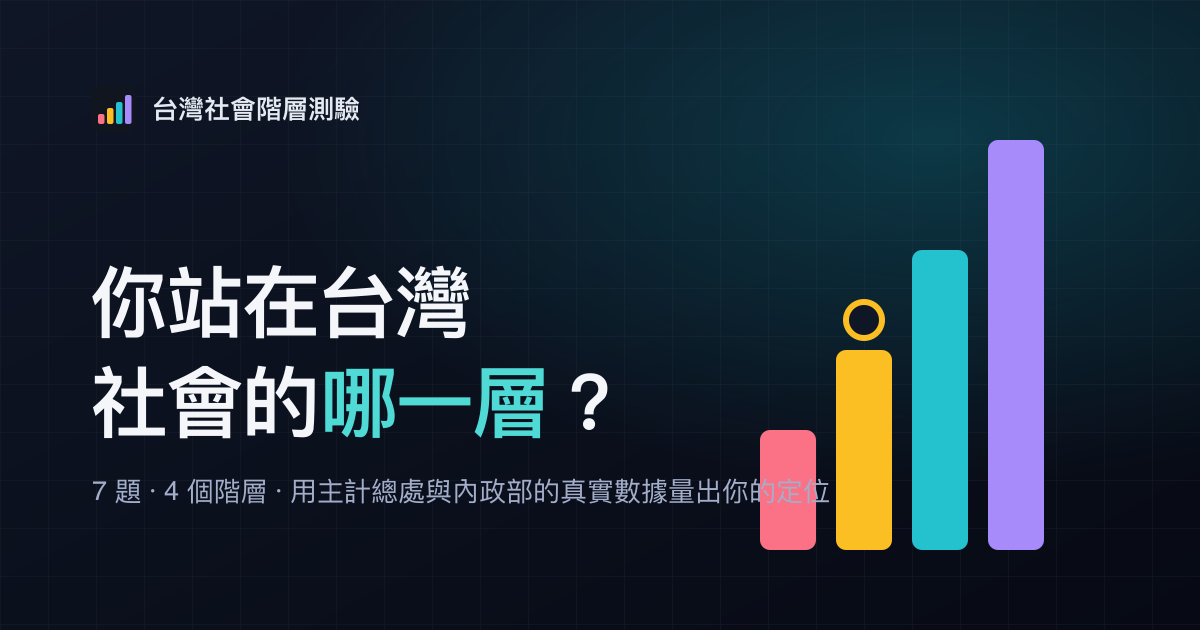
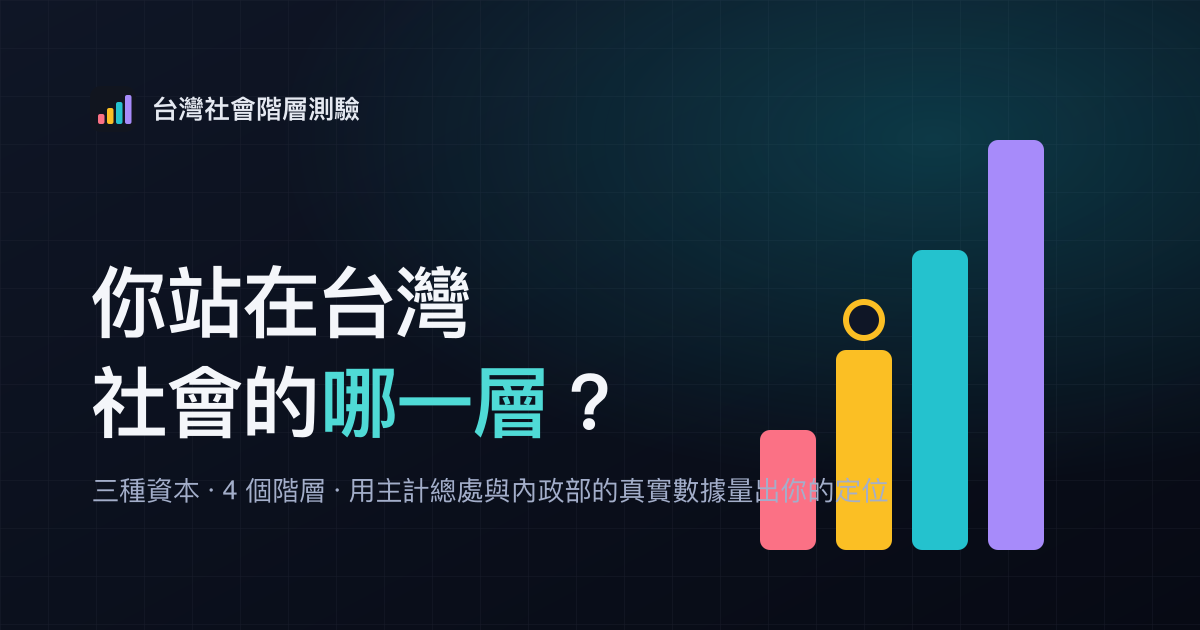
fix: drop stale "7 題" copy; make counts dynamic / number-free
The 7→9 migration missed several question-count strings. Rather than just
bumping them, remove the number from flavor/marketing copy (so it can't go
stale again) and make the legitimate methodology counts dynamic:

- home hero badge & subtitle: number-free.
- home spectrum + /data methodology: read TOTAL_QUESTIONS / MIN_SCORE /
  MAX_SCORE from constants instead of hardcoding.
- result empty state, /data caveat: number-free.
- meta description / og / twitter / webmanifest / og-image.svg: drop the
  question count (regenerated og-image.png).

Changed region(s): [[0.0617, 0.754, 0.74, 0.8143]]

diff --git a/resources/js/components/pages/home/HomeIndex.vue b/resources/js/components/pages/home/HomeIndex.vue
@@ -4,7 +4,7 @@
         <section class="pt-12 sm:pt-20 pb-12 text-center max-w-[760px] mx-auto animate-fade-up">
             <div class="inline-flex items-center gap-2 px-3 py-1 rounded-full bg-teal-500/10 border border-teal-500/30 text-teal-300 text-xs font-medium mb-6">
                 <span class="w-1.5 h-1.5 rounded-full bg-teal-400 animate-pulse-dot"></span>
-                7 題 · 真實數據校準 · 純前端、不蒐集任何資料
+                真實數據校準 · 純前端 · 不蒐集任何資料
             </div>
             <h1 class="font-display text-4xl sm:text-[3.4rem] font-bold text-steel-50 leading-[1.15] tracking-tight mb-5">
                 你，站在台灣社會的
@@ -14,7 +14,7 @@
                 用社會學家 Bourdieu 的
                 <span class="text-steel-100 font-medium">三種資本</span>
                 ——經濟、文化、社會——拆解你的「特權值」，<br class="hidden sm:block" />
-                9 道題量出你在台灣社會結構中的實質定位。
+                短短幾題，量出你在台灣社會結構中的實質定位。
                 <br class="hidden sm:block" />
                 每個級距都對照
                 <span class="text-steel-100 font-medium">主計總處、內政部</span>
@@ -43,7 +43,7 @@
             <div class="rounded-xl2 border border-steel-800/70 bg-ink-900/60 p-6 sm:p-8 shadow-panel">
                 <div class="flex items-baseline justify-between mb-4">
                     <h2 class="font-display text-lg font-bold text-steel-100">四個階層級距</h2>
-                    <span class="font-mono text-xs text-steel-500">總分 9 – 45</span>
+                    <span class="font-mono text-xs text-steel-500">總分 {{ minScore }} – {{ maxScore }}</span>
                 </div>
 
                 <div class="flex h-3 rounded-full overflow-hidden mb-5">
@@ -125,7 +125,7 @@
 
 <script>
 import {TIERS} from 'data/tiers';
-import {DIMENSIONS} from 'data/questions';
+import {DIMENSIONS, MIN_SCORE, MAX_SCORE} from 'data/questions';
 import {STATS} from 'data/stats';
 import {useQuizStore} from 'stores/quiz/quiz';
 
@@ -137,6 +137,8 @@ export default {
         return {
             store,
             tiers: TIERS,
+            minScore: MIN_SCORE,
+            maxScore: MAX_SCORE,
             dimensions: Object.values(DIMENSIONS),
             teaserStats: [
                 STATS.find((s) => s.id === 'salaryMedian'),

diff --git a/resources/js/components/pages/data/DataIndex.vue b/resources/js/components/pages/data/DataIndex.vue
@@ -12,7 +12,7 @@
         <section class="mb-10 rounded-xl2 border border-steel-800/70 bg-ink-900/50 p-6">
             <h2 class="font-display text-base font-bold text-steel-100 mb-3">怎麼算分？</h2>
             <ul class="space-y-2 text-sm text-steel-300 leading-relaxed list-disc pl-5">
-                <li>9 題、每題 5 個選項，A~E 分別對應 1~5 分，總分介於 <span class="font-mono text-steel-100">9 ~ 45</span>。</li>
+                <li>{{ totalQuestions }} 題、每題 5 個選項，A~E 分別對應 1~5 分，總分介於 <span class="font-mono text-steel-100">{{ minScore }} ~ {{ maxScore }}</span>。</li>
                 <li>以社會學家 Bourdieu 的「三種資本」拆解 privilege（特權），每種資本各 3 題：經濟資本（收入／房產／淨資產）、文化資本（學養／財商／品味語言）、社會資本（同儕圈／人脈／原生靠山）。</li>
                 <li>總分落在四個級距之一，級距邊界參考下方真實分位數字校準。</li>
                 <li><span class="text-steel-100">PR 值</span>是把分數換算成 0~100 的「量表相對位置」（總分或單一資本），方便快速對照；它<span class="text-steel-100">不是</span>像學測那樣的全國真實百分位。</li>
@@ -57,7 +57,7 @@
             </p>
             <ul class="space-y-1.5 list-disc pl-5">
                 <li>家庭財富分配統計（2021）官方僅公布到五等分位，<span class="text-steel-200">「前 5%／前 1% 門檻」並無官方數字</span>，本站頂層級因此改用「最富 20% 平均淨值」與「綜所稅 40% 級距」這兩個有出處的錨點。</li>
-                <li>分數級距是為了「快速自我定位」做的近似切分，真實的階級流動遠比 7 題複雜。把它當反思的起點，不是判決書。</li>
+                <li>分數級距是為了「快速自我定位」做的近似切分，真實的階級流動遠比這幾題複雜。把它當反思的起點，不是判決書。</li>
             </ul>
         </section>
 
@@ -75,6 +75,7 @@
 <script>
 import {useHead} from '@unhead/vue';
 import {STATS, SOURCES} from 'data/stats';
+import {TOTAL_QUESTIONS, MIN_SCORE, MAX_SCORE} from 'data/questions';
 
 export default {
     name: 'DataIndex',
@@ -87,6 +88,9 @@ export default {
             .filter((g) => g.items.length);
 
         return {
+            totalQuestions: TOTAL_QUESTIONS,
+            minScore: MIN_SCORE,
+            maxScore: MAX_SCORE,
             sources: SOURCES,
             grouped,
         };

diff --git a/resources/js/index.html b/resources/js/index.html
@@ -5,7 +5,7 @@
         <meta name="viewport" content="width=device-width, initial-scale=1.0" />
         <meta http-equiv="X-UA-Compatible" content="ie=edge" />
         <meta name="theme-color" content="#0C1120" />
-        <meta name="description" content="台灣社會階層自我評估測驗：用 Bourdieu 三種資本（經濟、文化、社會）拆解你的特權值，9 道題算出你在台灣社會結構中的實質定位與特權 PR。級距與文案以主計總處、內政部等真實數據校準。" />
+        <meta name="description" content="台灣社會階層自我評估測驗：用 Bourdieu 三種資本（經濟、文化、社會）拆解你的特權值，算出你在台灣社會結構中的實質定位與特權 PR。級距與文案以主計總處、內政部等真實數據校準。" />
 
         <link rel="icon" type="image/svg+xml" href="/favicon.svg" />
         <link rel="icon" type="image/png" sizes="32x32" href="/favicon-32.png" />
@@ -16,7 +16,7 @@
         <meta property="og:type" content="website" />
         <meta property="og:site_name" content="台灣社會階層測驗" />
         <meta property="og:title" content="你在台灣社會的哪一層？— 階層自我評估測驗" />
-        <meta property="og:description" content="用 Bourdieu 三種資本拆解你的特權值，9 題、4 個階層，搭配主計總處與內政部的真實數據量出你的定位。" />
+        <meta property="og:description" content="用 Bourdieu 三種資本拆解你的特權值，分成 4 個階層，搭配主計總處與內政部的真實數據量出你的定位。" />
         <meta property="og:image" content="/og-image.png" />
         <meta property="og:image:width" content="1200" />
         <meta property="og:image:height" content="630" />
@@ -24,7 +24,7 @@
 
         <meta name="twitter:card" content="summary_large_image" />
         <meta name="twitter:title" content="你在台灣社會的哪一層？" />
-        <meta name="twitter:description" content="7 題用真實數據量出你的階層定位。" />
+        <meta name="twitter:description" content="用真實數據量出你的階層定位。" />
         <meta name="twitter:image" content="/og-image.png" />
 
         <link rel="preconnect" href="https://fonts.gstatic.com" />

diff --git a/resources/js/components/pages/result/ResultIndex.vue b/resources/js/components/pages/result/ResultIndex.vue
@@ -4,7 +4,7 @@
         <div v-if="!store.complete" class="text-center py-20 animate-fade-up">
             <div class="text-5xl mb-4">🪜</div>
             <h2 class="font-display text-2xl font-bold text-steel-100 mb-2">還沒有結果</h2>
-            <p class="text-steel-400 mb-7">你還沒完成 7 題作答，先去測驗吧。</p>
+            <p class="text-steel-400 mb-7">你還沒完成作答，先去測驗吧。</p>
             <RouterLink
                 :to="{name: 'QUIZ_INDEX'}"
                 class="inline-flex items-center gap-2 px-6 py-3 bg-teal-500 hover:bg-teal-400 text-ink-950 font-bold rounded-full shadow-glow transition-all"